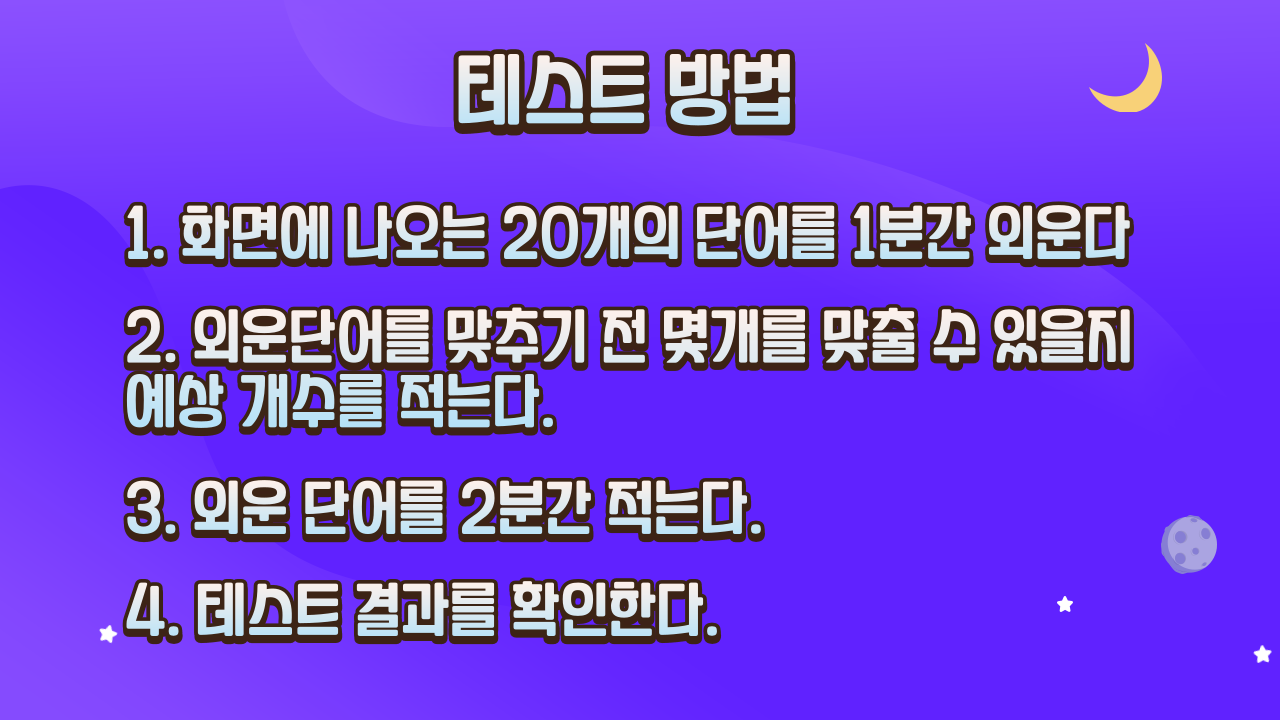
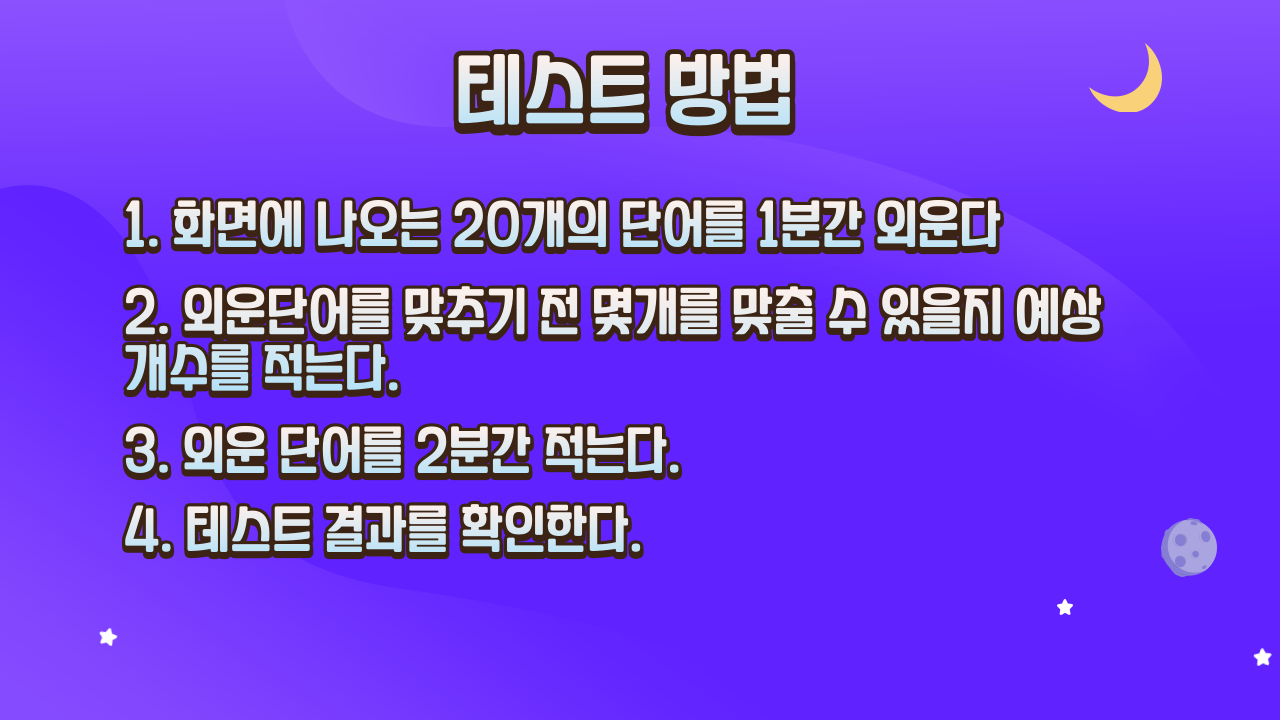
각 페이지별 배경 이미지 추가, 테스트 방법 수정

diff --git a/src/HowToPage.py b/src/HowToPage.py
@@ -1,30 +1,31 @@
 import tkinter as tk
-from tkinter import PhotoImage
-from PIL import Image, ImageTk
-from StartPage import StartPage
+# from tkinter import PhotoImage
+# from PIL import Image, ImageTk
+# from StartPage import StartPage
 from BaseImage import BaseImage
 
-class HowToPage(BaseImage):  # tk.Frame을 상속하여 페이지 생성
+class HowToPage(BaseImage):  
     def __init__(self, parent, controller):
         super().__init__(parent)
         self.controller = controller  # 컨트롤러는 주 창(App 클래스)
         self.set_background("src/assets/how_to_test.png")
 
-        self.grid_rowconfigure(0, weight=1)
-        self.grid_rowconfigure(1, weight=1)
-        self.grid_rowconfigure(2, weight=1)
-        self.grid_rowconfigure(3, weight=1)
-        self.grid_rowconfigure(4, weight=1)
-        self.grid_columnconfigure(0, weight=1)
-        self.grid_columnconfigure(1, weight=1)
-        self.grid_columnconfigure(2, weight=1)
+        # self.grid_rowconfigure(0, weight=1)
+        # self.grid_rowconfigure(1, weight=1)
+        # self.grid_rowconfigure(2, weight=1)
+        # self.grid_rowconfigure(3, weight=1)
+        # self.grid_rowconfigure(4, weight=1)
+        # self.grid_columnconfigure(0, weight=1)
+        # self.grid_columnconfigure(1, weight=1)
+        # self.grid_columnconfigure(2, weight=1)
 
 
 # "테스트 방법", "1. 화면에 나오는 20개의 단어를 1분간 외운다.\n"
 #         "2. 외운단어를 맞추기 전 몇개를 맞출 수 있을지 개수를 적는다.\n"
 #         "3. 외운단어를 2분간 적는다.\n"
 #         "4. 테스트 전에 몇 개를 맞출지 예상한 개수와 실제 외운 단어 개수를 비교한다.\n"
-        
+        self.start_test_btn = tk.Button(self, text="테스트 시작", command=self.backTo,height=3, width=20,font=("나눔고딕", 14))
+        self.start_test_btn.place(x=650, y=750)
 
     def backTo(self):
-        self.controller.switch_frame("StartPage") #사용자정보입력 페이지로 넘어가기
+        self.controller.switch_frame("UserInfo") #사용자정보입력 페이지로 넘어가기

diff --git a/src/ResultScreen.py b/src/ResultScreen.py
@@ -1,18 +1,21 @@
 import tkinter as tk
+from BaseImage import BaseImage
 
-class ResultScreen(tk.Frame):
+class ResultScreen(BaseImage):
     def __init__(self, parent, controller):
         super().__init__(parent)
         self.controller = controller
+        self.set_background("src/assets/main_background-3rd.png")
 
         self.show_results()
 
     def show_results(self):
         # 기존 위젯 제거
         for widget in self.winfo_children():
-            widget.destroy()
+            if widget is not self.background_label: #배경화면이 아닌 위젯만 제거
+                widget.destroy()
             
-        result_frame = tk.Frame(self)
+        result_frame = tk.Frame(self, bg='white')
         result_frame.pack(expand=True)
 
         words_to_display = self.controller.user.random_words #랜덤으로 나온 20개 단어 호출
@@ -30,8 +33,8 @@ class ResultScreen(tk.Frame):
             else:
                 display_text = f"{word} X" #사용하자 맞추지 못한 단어 옆에는 X 표시
                 word_color="red" # 맞추지 못한 단어는 빨간색
-            word_label = tk.Label(result_frame, text=display_text, font=("나눔고딕", 30, "bold"), fg=word_color)
-            word_label.grid(row=i//5, column=i%5, padx=20, pady=20)
+            word_label = tk.Label(result_frame, text=display_text, font=("나눔고딕", 30, "bold"), fg=word_color, bg='white')
+            word_label.grid(row=i//5, column=i%5, padx=8, pady=20)
 
         self.show_report_button = tk.Button(self, text="자세한 결과보기", command=self.show_report,height=3, width=20,font=("나눔고딕", 14))
         self.show_report_button.pack(pady=10)    

diff --git a/src/EnterWord.py b/src/EnterWord.py
@@ -1,13 +1,16 @@
 import tkinter as tk
 from ResultScreen import ResultScreen
 # from Timer import Timer
+from BaseImage import BaseImage
 
-class EnterWord(tk.Frame):
+class EnterWord(BaseImage):
     second=120
 
     def __init__(self, parent, controller):
         super().__init__(parent)
         self.controller = controller
+        self.set_background("src/assets/main_background-3rd.png")
+
     
         self.timer_label = tk.Label(self, text="120초 (남은 시간)")
         self.timer_label.pack(expand=True)
@@ -28,7 +31,7 @@ class EnterWord(tk.Frame):
             self.second -= 1
             self.after(1000, self.addSecond)
         else:
-            self.controller.switch_frame("ResultScreen")
+            self.controller.switch_frame("TestComplete")
 
     def start_timer(self):
         self.addSecond()
@@ -39,4 +42,4 @@ class EnterWord(tk.Frame):
         self.entry.delete(0, tk.END)
 
     def confirm_btn(self):
-        self.controller.switch_frame("ResultScreen")
+        self.controller.switch_frame("TestComplete")

diff --git a/src/App.py b/src/App.py
@@ -9,6 +9,7 @@ from EstimatedNumber import EstimatedNumber
 from ReportScreen import ReportScreen
 from ResultScreen import ResultScreen
 from EnterWord import EnterWord
+from TestComplete import TestComplete
 from User import User
 
 # tk.Tk를 상속받아 창을 생성하고 관리
@@ -31,7 +32,7 @@ class MetacognitionTestApp(tk.Tk):
         container.grid_rowconfigure(0, weight=1)
         container.grid_columnconfigure(0, weight=1)
 
-        for Frame in (StartPage, HowToPage, UserInfo, ShowWord, EstimatedNumber, EnterWord, ResultScreen ,ReportScreen):  # 여러 페이지(Frame)를 초기화
+        for Frame in (StartPage, HowToPage, UserInfo, ShowWord, EstimatedNumber, EnterWord, TestComplete ,ResultScreen ,ReportScreen):  # 여러 페이지(Frame)를 초기화
             page_name = Frame.__name__
             frame = Frame(parent=container, controller=self)  # 각 Frame에 부모와 컨트롤러 전달
             self.frames[page_name] = frame  # 딕셔너리에 Frame 저장

diff --git a/src/ShowWord.py b/src/ShowWord.py
@@ -31,7 +31,7 @@ class ShowWord(BaseImage):
         self.set_background("src/assets/main_background-3rd.png")
 
         self.word_label = tk.Label(self, text="20개의 단어를 하나씩 보여드리겠습니다.\n⏰한 단어당 2초\n\n화면에 출력되는 단어를 기억하자!", font=("나눔고딕", 48),bg="white")
-        self.word_label.pack(expand=True) # 단어 글자수가 달라서 상대적 위치를 지정해주는 pack 사용
+        self.word_label.pack(expand=True, pady=20) # 단어 글자수가 달라서 상대적 위치를 지정해주는 pack 사용
 
         self.button_start= tk.Button(self,text="START",font=("나눔고딕", 30),command=self.show_word)
         self.button_start.pack(expand=True)

diff --git a/src/TestComplete.py b/src/TestComplete.py
@@ -1,0 +1,14 @@
+import tkinter as tk
+from BaseImage import BaseImage
+
+class TestComplete(BaseImage):  
+    def __init__(self, parent, controller):
+        super().__init__(parent)
+        self.controller = controller  # 컨트롤러는 주 창(App 클래스)
+        self.set_background("src/assets/test_complete_bg.png")
+
+        self.test_complete_btn = tk.Button(self, text="결과 보기", command=self.move_ResultScreen,height=3, width=20,font=("나눔고딕", 14))
+        self.test_complete_btn.place(x=650, y=650)
+
+    def move_ResultScreen(self):
+        self.controller.switch_frame("ResultScreen") #사용자정보입력 페이지로 넘어가기

diff --git a/src/EstimatedNumber.py b/src/EstimatedNumber.py
@@ -2,12 +2,16 @@ import tkinter as tk
 from tkinter import messagebox
 from EnterWord import EnterWord
 from ReportScreen import ReportScreen
+from BaseImage import BaseImage
 
-class EstimatedNumber(tk.Frame):
+
+class EstimatedNumber(BaseImage):
     def __init__(self, parent, controller):
         super().__init__(parent)
         self.controller = controller
-
+        
+        self.set_background("src/assets/main_background-3rd.png")
+        
         # "메타인지 테스트" 타이틀 라벨
         self.title_label = tk.Label(self, text="메타인지 테스트", font=("Helvetica", 48))
         self.title_label.place(x=400, y=100)

diff --git a/src/UserInfo.py b/src/UserInfo.py
@@ -1,13 +1,8 @@
 import tkinter as tk
 from PIL import Image, ImageTk
 from ShowWord import ShowWord
-<<<<<<< HEAD
 from User import User
 from BaseImage import BaseImage
-=======
-from User import User
->>>>>>> main
-
 
 class UserInfo(BaseImage): ##BasePage(배경 이미지 설정 클래스) 상속
     def __init__(self, parent, controller):
